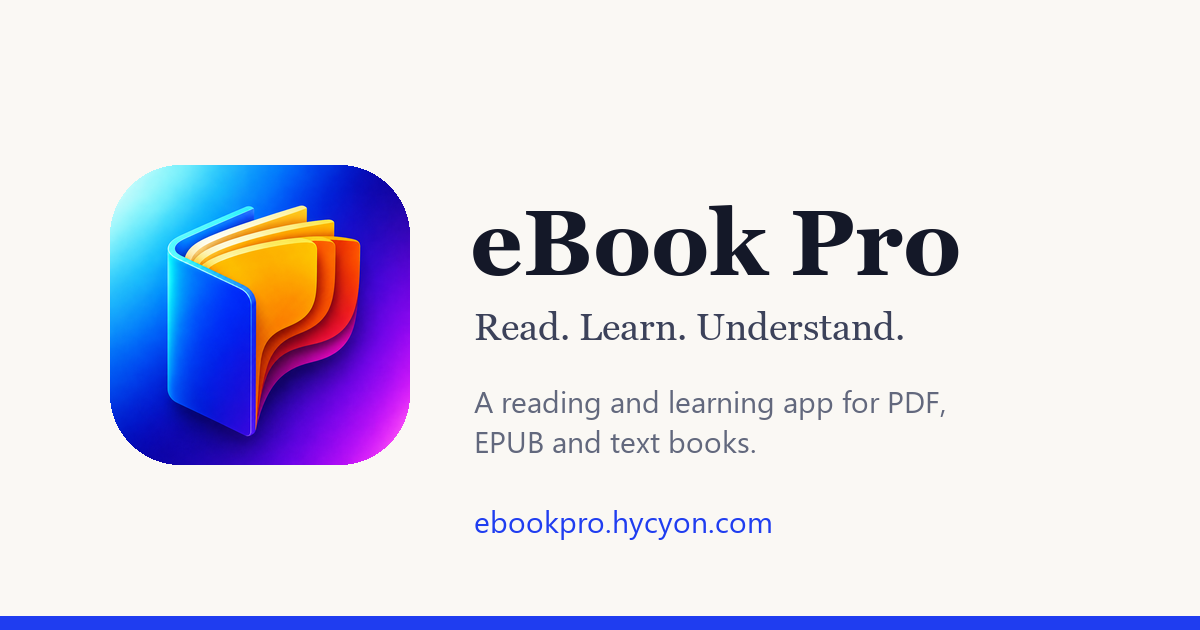
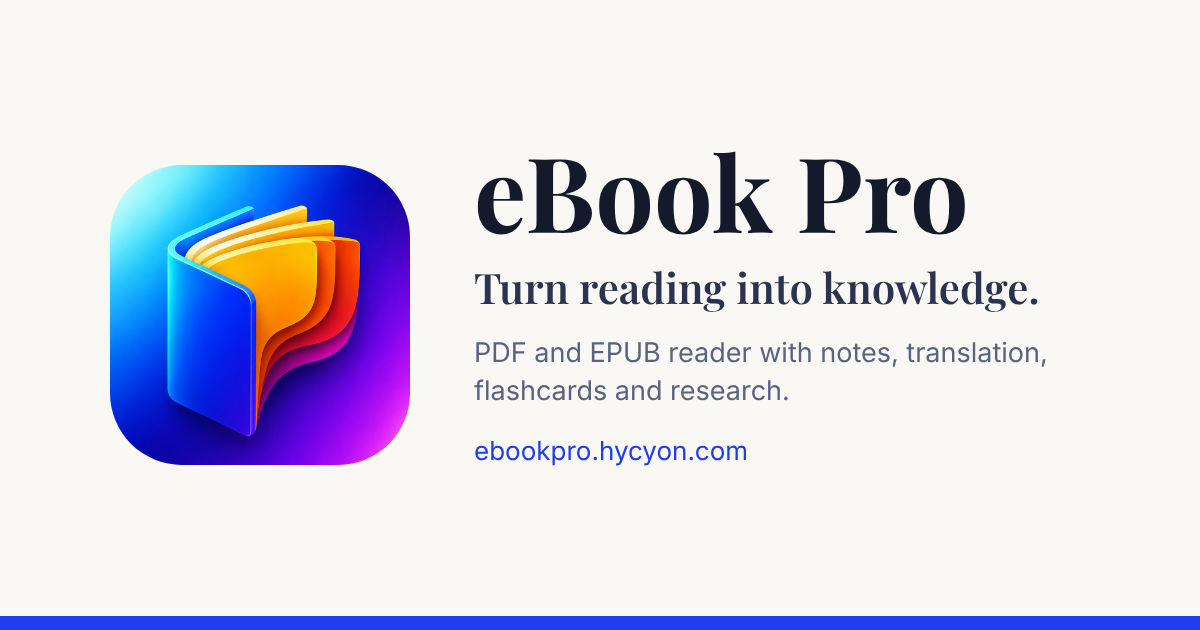
Home: six-stage story, screenshots first, evidence section with enforced sourcing
Replaces nine alternating feature sections with Read, Understand, Capture, Connect,
Remember, Create. Adds a verifiable-facts section and empty, ready slots for
downloads, ratings, reviews and stories; the QA script rejects any entry without a
source and date. Notes that screenshots predate the newest features. New social
preview that states the product's positioning.

Claude-Session: https://claude.ai/code/session_01A1ozdC1eDYq8HpzSHzVj2T

Changed region(s): [[0.37, 0.2413, 0.8633, 0.573], [0.37, 0.6032, 0.8017, 0.754], [0.4008, 0.8143, 0.6475, 0.8746]]

diff --git a/index.html b/index.html
@@ -82,22 +82,19 @@
   </div>
 </section>
 
-<section class="reveal">
+<section class="reveal" id="see-it">
   <div class="wrap">
-    <div class="section-head"><h2>From reading to knowledge</h2><p class="lead">Everything you save is one linked object, shown wherever it is useful: in the book, in a collection, on a canvas, in a research workspace and in search.</p></div>
-    <ol class="grid g3 flow"><li class="card"><p class="eyebrow">1</p><h3>Read</h3></li><li class="card"><p class="eyebrow">2</p><h3>Understand</h3></li><li class="card"><p class="eyebrow">3</p><h3>Capture</h3></li><li class="card"><p class="eyebrow">4</p><h3>Connect</h3></li><li class="card"><p class="eyebrow">5</p><h3>Remember</h3></li><li class="card"><p class="eyebrow">6</p><h3>Create</h3></li></ol>
+    <div class="section-head"><h2>See the app</h2></div>
+    <div class="shots"><figure><img src="/assets/screenshots/translate-pdf.webp" alt="A PDF in eBook Pro with the word &quot;White&quot; selected; the translation card shows English to Hindi and the result &quot;सफेद&quot;" width="540" height="1200" loading="lazy" decoding="async"><figcaption>Translate a selection in a PDF</figcaption></figure><figure><img src="/assets/screenshots/translate-epub.webp" alt="An EPUB in eBook Pro with the word &quot;fortune&quot; selected; the translation card shows the Hindi translation &quot;भाग्य&quot;" width="540" height="1200" loading="lazy" decoding="async"><figcaption>Translate a selection in an EPUB</figcaption></figure><figure><img src="/assets/screenshots/translate-hindi-word.webp" alt="A Hindi PDF with the word &quot;सुहावना&quot; selected; the card detects Hindi and shows the English translation &quot;Delightful&quot;" width="540" height="1200" loading="lazy" decoding="async"><figcaption>Hindi to English, language detected automatically</figcaption></figure><figure><img src="/assets/screenshots/translate-hindi-selection.webp" alt="A whole line of Hindi text selected in a PDF, with its English translation in the card" width="540" height="1200" loading="lazy" decoding="async"><figcaption>Translate a whole Hindi line</figcaption></figure><figure><img src="/assets/screenshots/wikipedia-hindi.webp" alt="The translation card with a Hindi Wikipedia summary, thumbnail space and a link to read on Wikipedia" width="540" height="1200" loading="lazy" decoding="async"><figcaption>Hindi Wikipedia in the same card</figcaption></figure><figure><img src="/assets/screenshots/library-home.webp" alt="eBook Pro home screen showing a Continue card and a library shelf of three books" width="540" height="1200" loading="lazy" decoding="async"><figcaption>Home and library</figcaption></figure><figure><img src="/assets/screenshots/reader-highlight-note.webp" alt="A PDF page open in the eBook Pro reader with a yellow highlight and a note marker on the text" width="540" height="1200" loading="lazy" decoding="async"><figcaption>Reading, highlights and notes</figcaption></figure><figure><img src="/assets/screenshots/reader-notes-panel.webp" alt="The notes panel in the reader listing one highlight and one note for the current book" width="540" height="1200" loading="lazy" decoding="async"><figcaption>Notes for the book you are reading</figcaption></figure><figure class="wide"><img src="/assets/screenshots/notes-workspace.webp" alt="The Edit / Write workspace with a list of notes and a checklist note open in the editor with a formatting toolbar" width="1200" height="540" loading="lazy" decoding="async"><figcaption>Edit / Write workspace</figcaption></figure></div><p class="small muted">Real screenshots of the Android app, captured on version 1.1.0 with public-domain sample books and sample notes. The canvas, research workspaces and sync arrived in later versions and are not pictured yet.</p>
   </div>
 </section>
 
-<section class="alt reveal"><div class="wrap narrow"><p class="eyebrow">Reader</p><h2>Made for long-form reading</h2><p>PDF, EPUB, EPUB 3 and TXT in one reader: page-curl or slide turning, themes, typography, contents, bookmarks, tappable EPUB links and footnotes, pinch-zoom for PDFs, and read aloud. Import web articles to read them offline.</p><p><a href="/formats/">Supported formats →</a></p></div></section>
-<section class="reveal"><div class="wrap narrow"><p class="eyebrow">Notes &amp; highlights</p><h2>Capture what matters</h2><p>Select a passage to highlight it, write a note, save it, or draw on a PDF page. Everything keeps its source, so one tap takes you back to the exact page. The Edit / Write workspace turns notes into documents.</p><p><a href="/features/#notes">Notes and writing →</a></p></div></section>
-<section class="alt reveal"><div class="wrap narrow"><p class="eyebrow">AI · Premium</p><h2>Understand hard passages</h2><p>Ask AI to explain, simplify, summarise or give examples for a passage, or summarise a page, chapter or whole book. Answers are labelled as generated. Up to 20 requests a day.</p><p><a href="/ai/">How the AI works →</a></p></div></section>
-<section class="reveal"><div class="wrap narrow"><p class="eyebrow">OCR &amp; translation</p><h2>Scanned pages and other languages</h2><p>On Android, scanned pages and images are read on your device (English and Hindi), so their text can be selected and searched. Translate selections on your device; read a chapter bilingually with Premium.</p><p><a href="/features/#learning">Learning tools →</a></p></div></section>
-<section class="alt reveal"><div class="wrap narrow"><p class="eyebrow">Knowledge canvas · Premium</p><h2>Connect ideas</h2><p>Turn notes, highlights, passages, AI answers, voice notes and books into cards on a board, connect them with labelled links, and open any card at its source.</p><p><a href="/features/#notes">Canvas details →</a></p></div></section>
-<section class="reveal"><div class="wrap narrow"><p class="eyebrow">Collections</p><h2>Organise anything</h2><p>A collection can hold books, notes, highlights, cards, words, passages and voice notes. Smart collections find what you are reading, have not started or recently annotated.</p><p><a href="/features/#library">Library features →</a></p></div></section>
-<section class="alt reveal"><div class="wrap narrow"><p class="eyebrow">Research workspace · Premium</p><h2>Study several documents together</h2><p>Pick the books and articles for a question, search all of them at once, compare passages side by side, pin evidence, ask AI for an answer with numbered citations, and export it to Word.</p><p><a href="/features/#notes">Research details →</a></p></div></section>
-<section class="reveal"><div class="wrap narrow"><p class="eyebrow">Study tools</p><h2>Remember it</h2><p>Flashcards with spaced repetition from anything you saved, My Dictionary for new words, and a reading dashboard with goals and streaks.</p><p><a href="/features/#learning">Study features →</a></p></div></section>
-<section class="alt reveal"><div class="wrap narrow"><p class="eyebrow">Cloud sync · Premium</p><h2>Your knowledge on every device</h2><p>Turn on sync to keep notes, highlights, cards, words, collections, canvases, workspaces and voice notes in step across your devices. Book files and reading positions stay on each device.</p><p><a href="/docs/">What sync covers →</a></p></div></section>
+<section class="alt reveal" id="stages">
+  <div class="wrap">
+    <div class="section-head"><h2>From reading to knowledge</h2><p class="lead">Everything you save is one linked object, shown wherever it is useful: in the book, in a collection, on a canvas, in a research workspace and in search. Six stages, in the order you use them.</p></div>
+    <ol class="grid g3 stages"><li class="card stage"><p class="eyebrow">1 · Read</p><h3>Open your own books.</h3><ul><li>PDF, EPUB, EPUB 3 and TXT in one reader, with page-curl or slide turning, themes and read aloud</li><li>Import web articles to read offline</li></ul><p><a href="/formats/">Supported formats →</a></p></li><li class="card stage"><p class="eyebrow">2 · Understand</p><h3>Stay on the page while you work it out.</h3><ul><li>Translate a selection on your device</li><li>Scanned pages and images read on your device, English and Hindi (Android)</li><li>Explain, simplify, summarise or give examples for a passage, up to 20 requests a day <span class="badge badge-prem">Premium</span></li><li>Read a chapter next to its translation <span class="badge badge-prem">Premium</span></li></ul><p><a href="/ai/">How the AI works →</a></p></li><li class="card stage"><p class="eyebrow">3 · Capture</p><h3>Keep what matters, with its source.</h3><ul><li>Highlights, notes, saved passages and pen marks on PDF pages</li><li>One tap from any note back to the exact page</li><li>Collections that hold books, notes, highlights, cards and words</li></ul><p><a href="/features/#notes">Notes and highlights →</a></p></li><li class="card stage"><p class="eyebrow">4 · Connect</p><h3>See how your ideas relate.</h3><ul><li>Search everything you saved from one place</li><li>Knowledge canvas: cards connected by labelled links <span class="badge badge-prem">Premium</span></li><li>Research workspaces: search, compare and ask across several books, with cited answers <span class="badge badge-prem">Premium</span></li></ul><p><a href="/features/#notes">Canvas and research →</a></p></li><li class="card stage"><p class="eyebrow">5 · Remember</p><h3>Turn what you saved into what you know.</h3><ul><li>Flashcards with spaced repetition from anything you saved</li><li>My Dictionary for new words</li><li>A reading dashboard with goals and streaks</li></ul><p><a href="/features/#learning">Study tools →</a></p></li><li class="card stage"><p class="eyebrow">6 · Create</p><h3>Turn notes into writing.</h3><ul><li>Edit / Write workspace, with Markdown and PDF export</li><li>Export notes, collections and research as Word documents <span class="badge badge-prem">Premium</span></li><li>Cloud sync keeps your notes and knowledge in step across devices <span class="badge badge-prem">Premium</span></li></ul><p><a href="/docs/">What sync covers →</a></p></li></ol>
+  </div>
+</section>
 
 <section class="reveal" id="pricing">
   <div class="wrap">
@@ -118,10 +115,16 @@
   </div>
 </section>
 
-<section class="reveal">
+<section class="reveal" id="evidence">
   <div class="wrap">
-    <div class="section-head"><h2>Screenshots</h2></div>
-    <div class="shots"><figure><img src="/assets/screenshots/translate-pdf.webp" alt="A PDF in eBook Pro with the word &quot;White&quot; selected; the translation card shows English to Hindi and the result &quot;सफेद&quot;" width="540" height="1200" loading="lazy" decoding="async"><figcaption>Translate a selection in a PDF</figcaption></figure><figure><img src="/assets/screenshots/translate-epub.webp" alt="An EPUB in eBook Pro with the word &quot;fortune&quot; selected; the translation card shows the Hindi translation &quot;भाग्य&quot;" width="540" height="1200" loading="lazy" decoding="async"><figcaption>Translate a selection in an EPUB</figcaption></figure><figure><img src="/assets/screenshots/translate-hindi-word.webp" alt="A Hindi PDF with the word &quot;सुहावना&quot; selected; the card detects Hindi and shows the English translation &quot;Delightful&quot;" width="540" height="1200" loading="lazy" decoding="async"><figcaption>Hindi to English, language detected automatically</figcaption></figure><figure><img src="/assets/screenshots/translate-hindi-selection.webp" alt="A whole line of Hindi text selected in a PDF, with its English translation in the card" width="540" height="1200" loading="lazy" decoding="async"><figcaption>Translate a whole Hindi line</figcaption></figure><figure><img src="/assets/screenshots/wikipedia-hindi.webp" alt="The translation card with a Hindi Wikipedia summary, thumbnail space and a link to read on Wikipedia" width="540" height="1200" loading="lazy" decoding="async"><figcaption>Hindi Wikipedia in the same card</figcaption></figure><figure><img src="/assets/screenshots/library-home.webp" alt="eBook Pro home screen showing a Continue card and a library shelf of three books" width="540" height="1200" loading="lazy" decoding="async"><figcaption>Home and library</figcaption></figure><figure><img src="/assets/screenshots/reader-highlight-note.webp" alt="A PDF page open in the eBook Pro reader with a yellow highlight and a note marker on the text" width="540" height="1200" loading="lazy" decoding="async"><figcaption>Reading, highlights and notes</figcaption></figure><figure><img src="/assets/screenshots/reader-notes-panel.webp" alt="The notes panel in the reader listing one highlight and one note for the current book" width="540" height="1200" loading="lazy" decoding="async"><figcaption>Notes for the book you are reading</figcaption></figure><figure class="wide"><img src="/assets/screenshots/notes-workspace.webp" alt="The Edit / Write workspace with a list of notes and a checklist note open in the editor with a formatting toolbar" width="1200" height="540" loading="lazy" decoding="async"><figcaption>Edit / Write workspace</figcaption></figure></div><p class="small muted">Screenshots show the Android app with public-domain sample books and sample notes.</p>
+    <div class="section-head"><h2>What you can verify today</h2><p class="lead">Facts you can check yourself. Nothing here is estimated or rounded up.</p></div>
+    <div class="grid g4">
+      <div class="card fact"><p class="eyebrow">Web app</p><p><span class="badge badge-ok">Available</span> <a href="https://ebookpro.web.app" rel="noopener">Open it in a browser</a></p></div>
+      <div class="card fact"><p class="eyebrow">Android</p><p><span class="badge badge-dev">In development</span> Preparing the Google Play release</p></div>
+      <div class="card fact"><p class="eyebrow">iPhone and iPad</p><p><span class="badge badge-plan">Planned</span> No iOS app yet</p></div>
+      <div class="card fact"><p class="eyebrow">Current version</p><p>1.5.1, released 14 October 2026. <a href="/changelog/">Every release →</a></p></div>
+    </div>
+    <div class="empty" style="margin-top:1.25rem"><p><strong>No ratings, reviews or download counts are published yet.</strong></p><p class="small">They will appear here once they exist, each with its source and date. We do not show placeholder numbers. See the <a href="/privacy/">privacy policy</a> and the <a href="/security/">security page</a> for how data is handled.</p></div>
   </div>
 </section>
 

diff --git a/assets/css/site.css b/assets/css/site.css
@@ -255,11 +255,6 @@ details.faq .a p:last-child{margin:0}
 @media print{.site-header,.site-footer,.cta-band,.docs-side{display:none}body{background:#fff;color:#000}}
 
 /* Home: numbered flow cards, hero buttons and platform chips */
-.flow{list-style:none;padding:0;margin:0}
-.flow .card{display:flex;align-items:center;gap:1rem}
-.flow .card .eyebrow{flex:none;display:grid;place-items:center;width:2.4rem;height:2.4rem;margin:0;border-radius:50%;background:var(--accent-soft);font-size:1rem;letter-spacing:0}
-.flow .card h3{margin:0}
-@media (min-width:621px){.flow .card{display:block}.flow .card .eyebrow{display:block;width:auto;height:auto;background:none;border-radius:0;font-size:.8rem;letter-spacing:.12em;margin:0 0 .75rem}.flow .card h3{margin:0 0 .4rem}}
 @media (max-width:620px){
   .hero .btn-row{flex-direction:column}
   .hero .btn-row .btn{width:100%}
@@ -268,3 +263,15 @@ details.faq .a p:last-child{margin:0}
   .center .btn-row{flex-direction:column;align-items:stretch}
   .center .btn-row .btn{width:100%}
 }
+
+/* Home: stages and evidence */
+.stages{list-style:none;padding:0;margin:0}
+.stage{display:flex;flex-direction:column}
+.stage h3{font:600 1.15rem/1.3 var(--sans);margin-bottom:.75rem}
+.stage ul{padding-left:1.1rem;margin:0 0 1rem}
+.stage li{margin-bottom:.5rem;color:var(--ink-2)}
+.stage p:last-child{margin-top:auto}
+.fact p:last-child{margin:0}
+.fact .badge{display:block;width:fit-content;margin:0 0 .5rem}
+.evidence{list-style:none;padding:0;margin:0 0 1.5rem}
+.evidence li{padding:.9rem 0;border-bottom:1px solid var(--line)}

diff --git a/src/assets/css/site.css b/src/assets/css/site.css
@@ -255,11 +255,6 @@ details.faq .a p:last-child{margin:0}
 @media print{.site-header,.site-footer,.cta-band,.docs-side{display:none}body{background:#fff;color:#000}}
 
 /* Home: numbered flow cards, hero buttons and platform chips */
-.flow{list-style:none;padding:0;margin:0}
-.flow .card{display:flex;align-items:center;gap:1rem}
-.flow .card .eyebrow{flex:none;display:grid;place-items:center;width:2.4rem;height:2.4rem;margin:0;border-radius:50%;background:var(--accent-soft);font-size:1rem;letter-spacing:0}
-.flow .card h3{margin:0}
-@media (min-width:621px){.flow .card{display:block}.flow .card .eyebrow{display:block;width:auto;height:auto;background:none;border-radius:0;font-size:.8rem;letter-spacing:.12em;margin:0 0 .75rem}.flow .card h3{margin:0 0 .4rem}}
 @media (max-width:620px){
   .hero .btn-row{flex-direction:column}
   .hero .btn-row .btn{width:100%}
@@ -268,3 +263,15 @@ details.faq .a p:last-child{margin:0}
   .center .btn-row{flex-direction:column;align-items:stretch}
   .center .btn-row .btn{width:100%}
 }
+
+/* Home: stages and evidence */
+.stages{list-style:none;padding:0;margin:0}
+.stage{display:flex;flex-direction:column}
+.stage h3{font:600 1.15rem/1.3 var(--sans);margin-bottom:.75rem}
+.stage ul{padding-left:1.1rem;margin:0 0 1rem}
+.stage li{margin-bottom:.5rem;color:var(--ink-2)}
+.stage p:last-child{margin-top:auto}
+.fact p:last-child{margin:0}
+.fact .badge{display:block;width:fit-content;margin:0 0 .5rem}
+.evidence{list-style:none;padding:0;margin:0 0 1.5rem}
+.evidence li{padding:.9rem 0;border-bottom:1px solid var(--line)}

diff --git a/README.md b/README.md
@@ -50,7 +50,9 @@ The app repository (`folio_reader`) is the source of truth. Do not mark a featur
 | Add an FAQ | `src/content/faq.mjs` (also feeds FAQ structured data) |
 | Update the roadmap | `src/content/roadmap.mjs` |
 | Add a changelog entry | add an object at the **top** of `src/content/changelog.mjs` |
-| Add screenshots | put real images in `src/assets/screenshots/`, list them in `src/content/screenshots.mjs` |
+| Add screenshots | put real images in `src/assets/screenshots/`, list them in `src/content/screenshots.mjs`, and update `screenshotsVersion` to the app version they were captured on |
+| Change the home page story (Read → Create) | `src/content/stages.mjs` (only released features; mark Premium ones) |
+| Publish downloads, ratings, reviews or user stories | `src/content/trust.mjs`. Real entries only, each with an https `source` and an ISO `date`; `npm run check` rejects entries without them. While empty, the home page says nothing is published yet |
 | Publish the Google Play link | set `android.playStoreUrl` in `site.config.mjs` |
 | Change the social preview | replace `src/assets/img/og_preview.png` (1200×630) |
 
